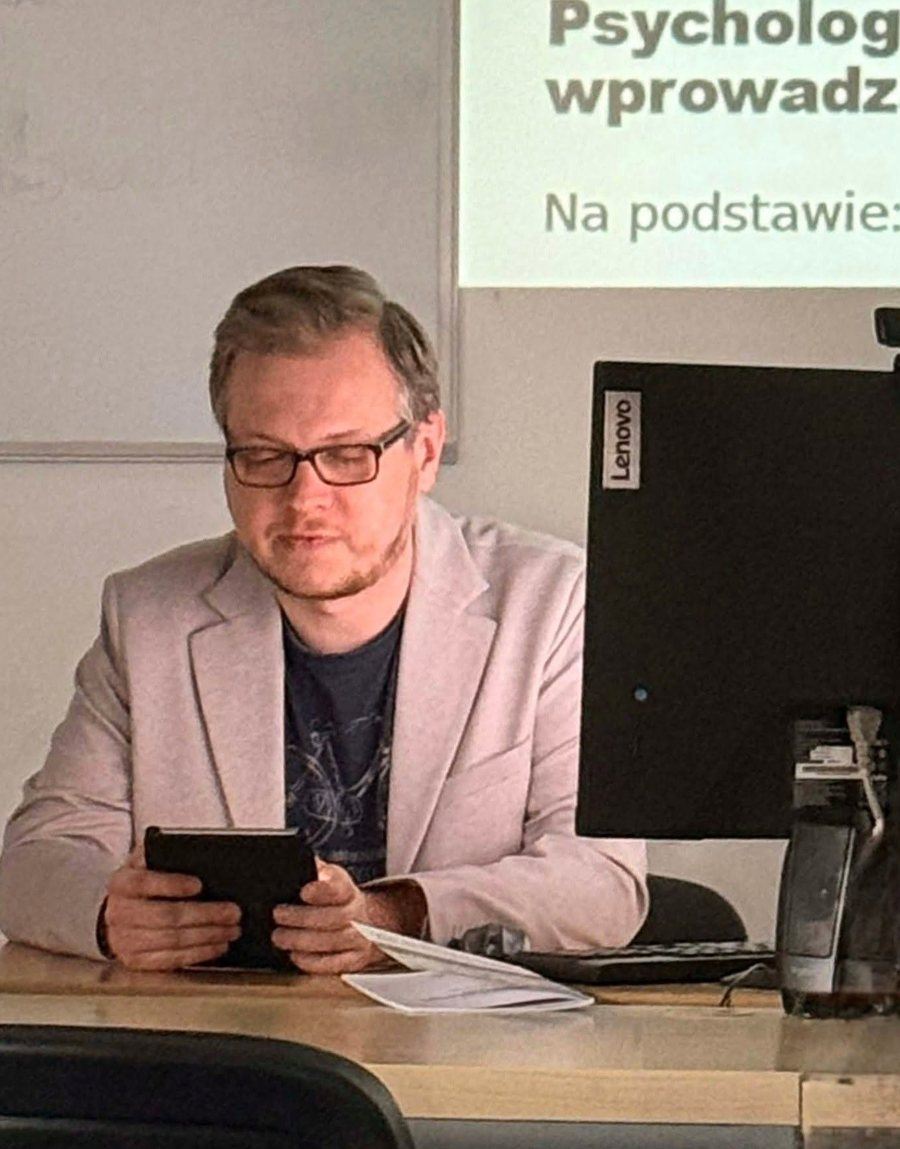
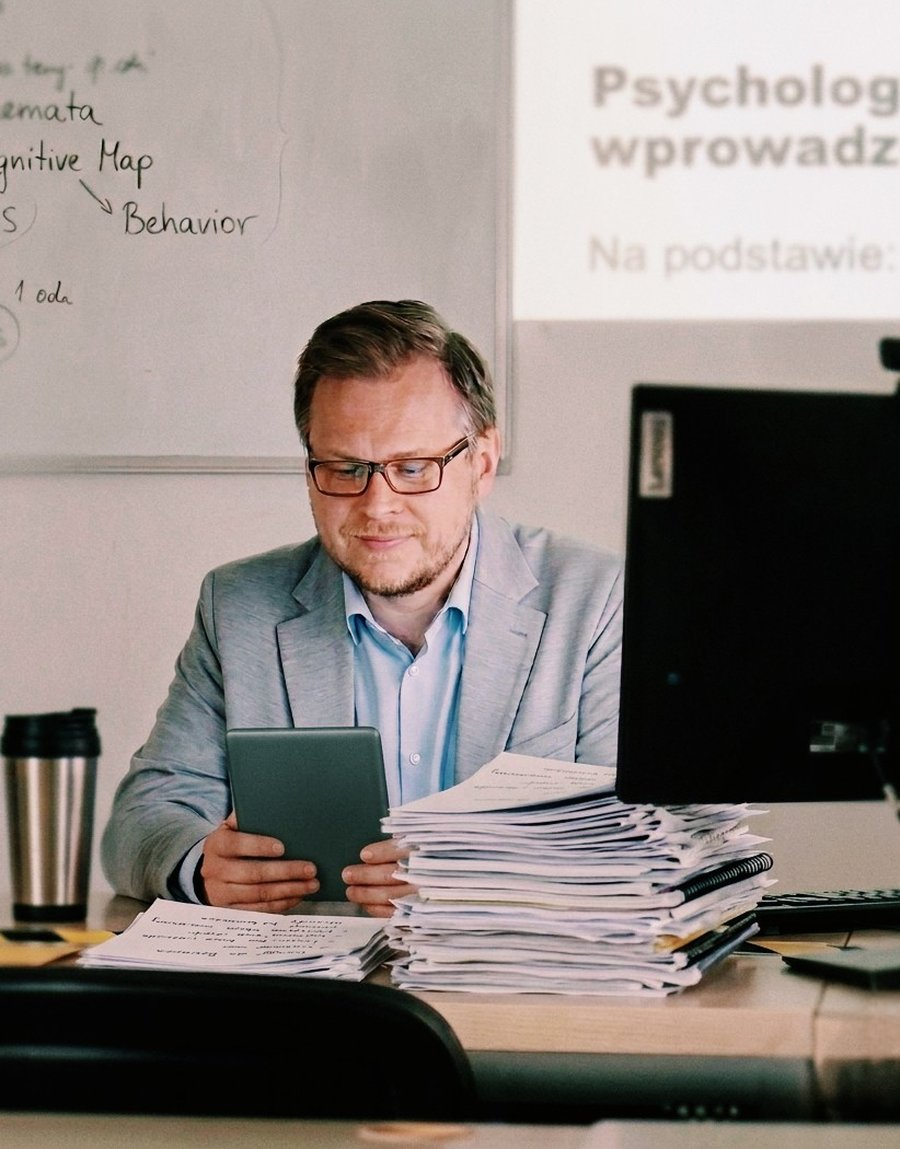
Add files via upload

diff --git a/index.html b/index.html
@@ -40,7 +40,25 @@ nav .wrap{display:flex;align-items:center;justify-content:space-between;height:6
 .logo span{color:var(--accent);}
 .navlinks{display:flex;gap:28px;font-size:0.9rem;color:var(--text-dim);}
 .navlinks a:hover{color:var(--text);}
-@media(max-width:640px){.navlinks{display:none;}}
+.nav-toggle{display:none;flex-direction:column;justify-content:center;gap:5px;width:38px;height:38px;background:none;border:none;cursor:pointer;padding:0;}
+.nav-toggle span{display:block;width:100%;height:2px;background:var(--text);border-radius:2px;transition:transform 0.2s ease, opacity 0.2s ease;}
+.nav-toggle[aria-expanded="true"] span:nth-child(1){transform:translateY(7px) rotate(45deg);}
+.nav-toggle[aria-expanded="true"] span:nth-child(2){opacity:0;}
+.nav-toggle[aria-expanded="true"] span:nth-child(3){transform:translateY(-7px) rotate(-45deg);}
+@media(max-width:640px){
+.navlinks{
+display:none;
+position:absolute;top:64px;left:0;right:0;
+flex-direction:column;gap:0;
+background:rgba(15,15,20,0.98);
+backdrop-filter:blur(10px);
+border-bottom:1px solid var(--border);
+}
+.navlinks.open{display:flex;}
+.navlinks a{padding:16px 24px;border-top:1px solid var(--border);}
+.nav-cta{display:none;}
+.nav-toggle{display:flex;}
+}
 /* HERO */
 header.hero{
 position:relative;
@@ -263,7 +281,7 @@ transition:transform 0.15s ease, box-shadow 0.15s ease;
 .coffee-fab:hover{transform:translateY(-2px);box-shadow:0 12px 30px rgba(255,93,58,0.5);}
 .coffee-fab .coffee-icon{font-size:1.05rem;line-height:1;}
 @media(max-width:640px){
-.coffee-fab{right:14px;bottom:14px;padding:10px 16px;font-size:0.85rem;}
+.coffee-fab{display:none;}
 }
 </style>
 </head>
@@ -275,12 +293,15 @@ transition:transform 0.15s ease, box-shadow 0.15s ease;
 <nav>
 <div class="wrap">
 <div class="logo">Paweł <span>Wasiak</span></div>
-<div class="navlinks">
+<div class="navlinks" id="navlinks">
 <a href="#o-mnie">O mnie</a>
 <a href="#projekty">Projekty</a>
 <a href="#kontakt">Kontakt</a>
 </div>
-<a href="#kontakt" class="btn btn-ghost" style="padding:10px 20px;font-size:0.85rem;">Napisz do mnie</a>
+<a href="#kontakt" class="btn btn-ghost nav-cta" style="padding:10px 20px;font-size:0.85rem;">Napisz do mnie</a>
+<button class="nav-toggle" id="navToggle" aria-label="Otwórz menu" aria-expanded="false">
+<span></span><span></span><span></span>
+</button>
 </div>
 </nav>
 <header class="hero">
@@ -314,6 +335,10 @@ transition:transform 0.15s ease, box-shadow 0.15s ease;
 <p>Studiuję psychologię na Akademii Humanistyczno-Ekonomicznej w Łodzi. Najbardziej interesuje mnie to, jak wiedzę psychologiczną przełożyć na coś praktycznego — nie tylko teorię z podręcznika, ale realne narzędzia, z których ktoś może skorzystać tu i teraz.</p>
 <p>Od zawsze pociąga mnie technologia, a szczególnie miejsce, w którym spotyka się z psychologią. Sam projektuję i koduję aplikacje internetowe wspierające naukę, diagnozę i terapię — od wyszukiwarek klasyfikacji diagnostycznych (ICD-11/DSM-5), przez generator materiałów AAC, po planer sesji dla terapeutów prowadzących trening umiejętności społecznych.</p>
 <p><strong>Na co dzień pracuję w środowisku Linux</strong> i cenię podejście open source — proste, dostępne narzędzia bez zbędnych ograniczeń, bez konta i bez zbierania danych. To filozofia, która przyświeca też moim własnym projektom.</p>
+<div class="story-box">
+<h3>Dlaczego to robię</h3>
+<p>Chcę, żeby psychologia była praktyczna i dostępna — dlatego zamiast poprzestawać na teorii, staram się przekładać ją na proste narzędzia online: bez logowania, bez zbierania danych, bez oceniania. Łączę to z moim zainteresowaniem technologią — programuję, eksperymentuję z narzędziami open source i dbam o to, żeby to, co tworzę, było lekkie i naprawdę użyteczne.</p>
+</div>
 </div>
 <div>
 <div class="profile-photo">
@@ -329,10 +354,6 @@ transition:transform 0.15s ease, box-shadow 0.15s ease;
 <div class="fact"><div class="n">Poza pracą</div><div class="v">Piesze wycieczki, gitara</div></div>
 </div>
 </div>
-</div>
-<div class="story-box">
-<h3>Dlaczego to robię</h3>
-<p>Chcę, żeby psychologia była praktyczna i dostępna — dlatego zamiast poprzestawać na teorii, staram się przekładać ją na proste narzędzia online: bez logowania, bez zbierania danych, bez oceniania. Łączę to z moim zainteresowaniem technologią — programuję, eksperymentuję z narzędziami open source i dbam o to, żeby to, co tworzę, było lekkie i naprawdę użyteczne.</p>
 </div>
 </div>
 </section>
@@ -369,7 +390,7 @@ transition:transform 0.15s ease, box-shadow 0.15s ease;
 <a class="card" href="http://tusplanner.wasiakpawel.pl/" target="_blank" rel="noopener">
 <div class="icon icon-6">🧩</div>
 <h3>TUS Planner</h3>
-<p>Aplikacja dla terapeutów prowadzących trening umiejętności społecznych (TUS) z dziećmi ze spektrum autyzmu: biblioteka scenariuszy, planer sesji, tracker postępów, generator historyjek społecznych z piktogramami ARASAAC oraz drukowalne raporty. Dane offline, bez logowania.</p>
+<p>Aplikacja dla terapeutów prowadzących trening umiejętności społecznych (TUS): biblioteka scenariuszy, planer sesji, tracker postępów i generator historyjek społecznych z piktogramami ARASAAC. Dane offline, bez logowania.</p>
 <span class="link">tusplanner.wasiakpawel.pl →</span>
 </a>
 <a class="card" href="https://kwestionariusze.wasiakpawel.pl/" target="_blank" rel="noopener">
@@ -387,7 +408,7 @@ transition:transform 0.15s ease, box-shadow 0.15s ease;
 </div>
 </div>
 </section>
-<section class="section">
+<section class="section" style="padding-bottom:40px;">
 <div class="wrap">
 <div class="section-tag">Poza psychologią</div>
 <h2>Trochę więcej o mnie</h2>
@@ -400,7 +421,7 @@ transition:transform 0.15s ease, box-shadow 0.15s ease;
 </div>
 </div>
 </section>
-<section class="section" id="kontakt">
+<section class="section" id="kontakt" style="padding-top:40px;">
 <div class="wrap">
 <div class="contact-card">
 <h2>Napiszmy razem coś dobrego</h2>
@@ -425,5 +446,23 @@ Paweł Wasiak · Student psychologii, AHE w Łodzi · <a href="mailto:pwasiak30@
 </div>
 </div>
 </footer>
+<script>
+(function(){
+var toggle = document.getElementById('navToggle');
+var links = document.getElementById('navlinks');
+if(!toggle || !links) return;
+toggle.addEventListener('click', function(){
+var open = toggle.getAttribute('aria-expanded') === 'true';
+toggle.setAttribute('aria-expanded', String(!open));
+links.classList.toggle('open');
+});
+links.querySelectorAll('a').forEach(function(a){
+a.addEventListener('click', function(){
+toggle.setAttribute('aria-expanded', 'false');
+links.classList.remove('open');
+});
+});
+})();
+</script>
 </body>
 </html>
